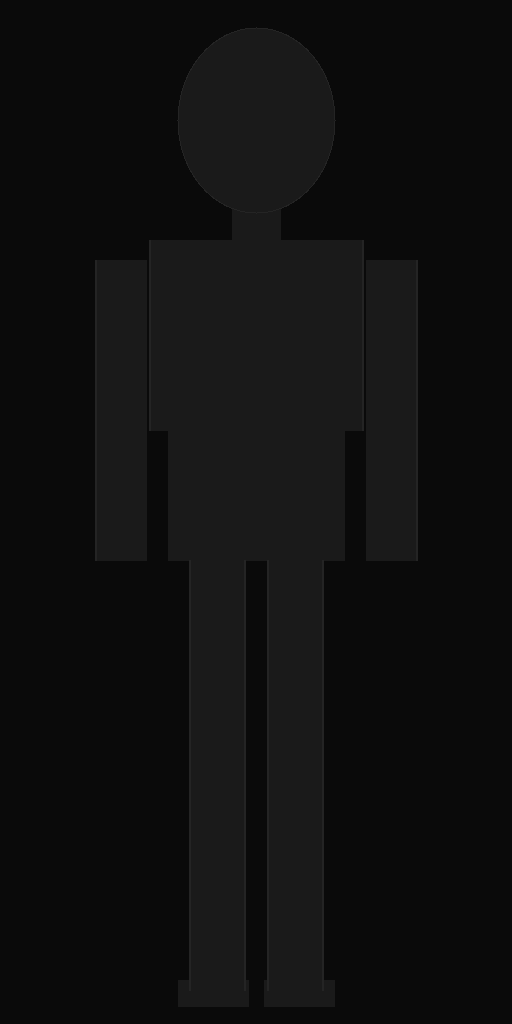
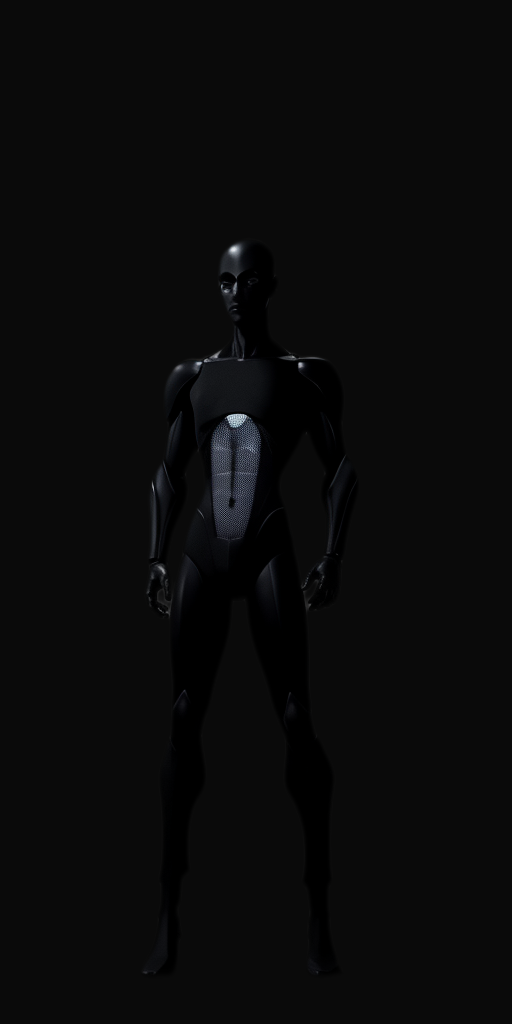
feat(assets): real body map art via rembg post-process + docker ComfyUI (refs #103)
- docker compose para ComfyUI headless (GPU) + flag --checkpoint no CLI
- rembg (erode/feather) → composite #0a0a0a: arte real 7/10 substitui placeholder
- baseline: gate vale para asset final; pós-processo documentado no fluxo
- ADR-2: pips/hit-areas retunados para a anatomia real; matriz de donos atualizada

Changed region(s): [[0.2812, 0.2188, 0.7188, 0.9688], [0.8125, 0.25, 0.8438, 0.5312]]

diff --git a/app/src/lib/chrome-body-map.ts b/app/src/lib/chrome-body-map.ts
@@ -1,17 +1,19 @@
 import type { ChromeSlot } from "@neon-dusk/shared";
 
-// Interactive geometry for the AI-generated body map (issue #94). The artwork
-// is a static PNG (app/src/assets/chrome/body-map.png); everything the player
-// interacts with is positioned here in percentages (0–100) so the overlay
-// scales at any breakpoint without JS measurement (ADR-3).
+// Interactive geometry for the AI-generated body map (issues #94, #103). The
+// artwork is a static PNG (app/src/assets/chrome/body-map.png); everything the
+// player interacts with is positioned here in percentages (0–100) so the
+// overlay scales at any breakpoint without JS measurement (ADR-3).
 //
-// Coordinates are derived from the old ChromeBodyMapSvg viewBox 200×400
-// (x/2, y/4), preserving the geometry tuned in issues #10/#28: each hit area
-// bounds the artwork path plus its stroke width. The #94 review retuned
-// skeleton (narrowed to the spine column) and arms so the torso rectangle
-// keeps an exclusive area — clicks on the skin no longer fall through to
-// inner systems. Regenerating the image keeps these valid because the
-// baseline pins the neutral pose (tools/asset-forge/baselines/neon-dusk.md).
+// #103 re-derived every coordinate from the replaced AI figure (rembg matte
+// measured on the 512×1024 asset): figure bbox x 27.9–69.7% / y 23.5–95.1%,
+// head y 23.5–34.4% (center x≈48.5), arms x 28.9–37% / 60–69.7% (y 35–60.5%),
+// legs down to y 95.1%. The #94 z-order semantics are preserved: the torso
+// rectangle (integumentary) stays the base layer, skeleton owns the spine
+// column, arms/legs/head zones render on top — clicks on skin still fall to
+// the torso, never through to inner systems. Regenerating the image keeps
+// these valid because the baseline pins the neutral pose
+// (tools/asset-forge/baselines/neon-dusk.md).
 
 /** Hit area of one slot, as a rectangle in % of the image (0–100). */
 export interface SlotHitArea {
@@ -24,29 +26,29 @@ export interface SlotHitArea {
 
 /** One rectangle per body region; `arms` has two (left/right). */
 export const SLOT_HIT_AREAS: SlotHitArea[] = [
-  { slot: "legs", x: 42, y: 58.75, w: 16, h: 24.25 },
-  { slot: "integumentary", x: 17.5, y: 23, w: 65, h: 35.75 },
-  { slot: "nervous_system", x: 42, y: 39.5, w: 16, h: 17.5 },
-  { slot: "skeleton", x: 40, y: 18, w: 20, h: 30 },
-  { slot: "circulatory", x: 31, y: 25.5, w: 16, h: 8 },
-  { slot: "arms", x: 4, y: 25, w: 22, h: 35 },
-  { slot: "arms", x: 74, y: 25, w: 22, h: 35 },
-  { slot: "ocular", x: 34, y: 9.25, w: 32, h: 11.5 },
-  { slot: "operating_system", x: 39, y: 14.5, w: 22, h: 8 },
-  { slot: "frontal_cortex", x: 36.5, y: 1.75, w: 27, h: 11.5 },
+  { slot: "legs", x: 27.5, y: 60, w: 41, h: 36 },
+  { slot: "integumentary", x: 30, y: 34, w: 37, h: 27 },
+  { slot: "nervous_system", x: 42, y: 50, w: 13, h: 11 },
+  { slot: "skeleton", x: 42, y: 35, w: 13, h: 15 },
+  { slot: "circulatory", x: 37, y: 37, w: 7, h: 8 },
+  { slot: "arms", x: 27, y: 35, w: 11, h: 25.5 },
+  { slot: "arms", x: 58.5, y: 35, w: 11.5, h: 25.5 },
+  { slot: "ocular", x: 33, y: 27.5, w: 31, h: 7 },
+  { slot: "operating_system", x: 38, y: 28.5, w: 21, h: 4.5 },
+  { slot: "frontal_cortex", x: 35.5, y: 22.5, w: 26, h: 5.5 },
 ];
 
-/** Pip/badge anchor per slot, in % of the image (viewBox PIPS / 2 and / 4). */
+/** Pip/badge anchor per slot, in % of the image — real anatomy centers (#103). */
 export const SLOT_PIPS: Record<ChromeSlot, { x: number; y: number }> = {
-  frontal_cortex: { x: 50, y: 3 },
-  ocular: { x: 50, y: 21.5 },
-  operating_system: { x: 50, y: 13 },
-  arms: { x: 18, y: 61.5 },
-  skeleton: { x: 56, y: 33 },
-  nervous_system: { x: 56, y: 63 },
-  circulatory: { x: 28, y: 44 },
-  integumentary: { x: 30, y: 63 },
-  legs: { x: 50, y: 88 },
+  frontal_cortex: { x: 48.5, y: 25 },
+  ocular: { x: 48.5, y: 28.5 },
+  operating_system: { x: 48.5, y: 32 },
+  arms: { x: 33, y: 49 },
+  skeleton: { x: 48.5, y: 42 },
+  nervous_system: { x: 48.5, y: 55 },
+  circulatory: { x: 39.5, y: 41 },
+  integumentary: { x: 40, y: 57 },
+  legs: { x: 46.5, y: 75 },
 };
 
 /**

diff --git a/app/src/lib/chrome-body-map.test.ts b/app/src/lib/chrome-body-map.test.ts
@@ -48,16 +48,18 @@ describe("chrome-body-map", () => {
     expect(Object.keys(SLOT_PIPS).sort()).toEqual([...CHROME_SLOTS].sort());
   });
 
-  it("should resolve click owners by LAYER_ORDER priority (matrix pinned in #94 review)", () => {
-    // Skin between spine and arm → torso keeps an exclusive area.
-    expect(resolveSlot(35, 50)).toBe("integumentary");
-    // Chest/spine column above the torso → skeleton wins.
-    expect(resolveSlot(50, 30)).toBe("skeleton");
+  it("should resolve click owners by LAYER_ORDER priority (matrix pinned in #94 review, retuned to #103 anatomy)", () => {
+    // Waist skin, between the spine column and the arm → torso keeps an
+    // exclusive area.
+    expect(resolveSlot(40, 57)).toBe("integumentary");
+    // Chest/spine column → skeleton wins.
+    expect(resolveSlot(48, 42)).toBe("skeleton");
     // Below the skeleton rect, inside the nervous system column.
     expect(resolveSlot(50, 52)).toBe("nervous_system");
-    // Both arm entries (left + mirrored right).
-    expect(resolveSlot(10, 30)).toBe("arms");
-    expect(resolveSlot(90, 30)).toBe("arms");
+    // Both arm entries (left + mirrored right) — arms hug the torso in the
+    // AI figure (x 27–38 / 58.5–70), far from the placeholder's spread pose.
+    expect(resolveSlot(32, 49)).toBe("arms");
+    expect(resolveSlot(65, 49)).toBe("arms");
     // Outside every area → no owner.
     expect(resolveSlot(0, 0)).toBeNull();
   });

diff --git a/app/src/components/chrome/ChromeBodyMapImage.test.tsx b/app/src/components/chrome/ChromeBodyMapImage.test.tsx
@@ -69,11 +69,11 @@ describe("ChromeBodyMapImage", () => {
     }
   });
 
-  it("should position hit-areas with percentage geometry derived from the old SVG viewBox", () => {
+  it("should position hit-areas with percentage geometry from the AI figure anatomy (#103)", () => {
     render(<ChromeBodyMapImage installed={[]} selectedSlot={null} onSelectSlot={vi.fn()} />);
 
     const legs = screen.getAllByRole("button", { name: /^Pernas — / })[0];
-    expect(legs).toHaveStyle({ left: "42%", top: "58.75%", width: "16%", height: "24.25%" });
+    expect(legs).toHaveStyle({ left: "27.5%", top: "60%", width: "41%", height: "36%" });
 
     // Paint order preserved: torso (Tegumentar) is the FIRST hit-area, so the
     // smaller slots rendered after it win overlapping clicks (LAYER_ORDER).

diff --git a/tools/asset-forge/baselines/neon-dusk.md b/tools/asset-forge/baselines/neon-dusk.md
@@ -11,16 +11,21 @@ sem anime genérico** (docs/design/00 §"O que NÃO copiar"; prompts em
 
 ### body-map (integrado nesta issue)
 
+O gate é avaliado sobre o **asset final** (pós-processado), não sobre o PNG
+bruto da geração — o modelo tende a produzir fundo claro/gradiente, corrigido
+na etapa de pós-processamento (§4).
+
 - **Anatomia coerente**: 2 braços, 2 pernas, 1 cabeça, proporções humanas
   plausíveis.
 - **Silhueta legível**: corpo inteiro visível, sem corte nas bordas, fundo
-  uniforme `#0a0a0a`.
+  uniforme `#0a0a0a` (garantido pela composição sobre `#0a0a0a` opaco).
 - **Pose neutra**: frontal, braços levemente afastados do tronco (as hit-areas
-  do `/chrome` dependem disso), pernas juntas, cabeça ereta.
+  do `/chrome` dependem disso), pernas neutras, cabeça ereta.
 - **Paleta noir**: monocromática, cinzas dessaturados, sem cor saturada
   dominante.
 - **Sem texto/glifos** na imagem.
 - **Sem watermark**.
+- **Sem halo/fringe** claro na borda da figura (erode/feather no matte).
 
 ### metro-map / icon / avatar (geração sob demanda)
 
@@ -64,10 +69,16 @@ paleta (fundo/realces), nunca introduzir cor fora dela.
 ## 4. Gate de aceite
 
 1. Gerar N variantes (`generate <tipo> --variants N`).
-2. Criticar cada uma contra os critérios (§1) + red flags (§2).
-3. Escolher a melhor; rejeitar (deletar) as demais.
-4. Renomear para o nome canônico (`output.filename` do registry) e commitar.
-5. Se nenhuma passar: ajustar prompt/seed e regerar. **Nunca commitar "quase"**.
+2. Criticar cada uma contra os critérios (§1) + red flags (§2) e escolher a
+   melhor; rejeitar (deletar) as demais.
+3. **Pós-processar** a escolhida (body-map; demais tipos quando aplicável):
+   remoção de fundo com `rembg` (venv dev-only, `pip install "rembg[cpu]"`) →
+   matte com erode ~2px + feather ~1px (mata halo/fringe) → composição sobre
+   fundo `#0a0a0a` opaco.
+4. Avaliar o **asset final** pós-processado contra os critérios — o gate de
+   fundo uniforme vale para o asset final, não para o PNG bruto.
+5. Renomear para o nome canônico (`output.filename` do registry) e commitar.
+6. Se nenhuma passar: ajustar prompt/seed e regerar. **Nunca commitar "quase"**.
 
 ## 5. Limites legais e editoriais
 

diff --git a/tools/asset-forge/docker/README.md b/tools/asset-forge/docker/README.md
@@ -1,0 +1,60 @@
+# ComfyUI (asset-forge) — infraestrutura Docker
+
+ComfyUI headless em Docker com GPU, usado pelo CLI
+`tools/asset-forge/cli.mjs` para gerar assets do Neon Dusk (SD1.5).
+**Nenhum peso/modelo entra no repo** — tudo fica no host via bind mount.
+
+## Subir
+
+```sh
+cd tools/asset-forge/docker
+docker compose up -d --build   # primeira build baixa ~3GB (torch cu126)
+```
+
+Depois de ~1 min, valide:
+
+```sh
+curl -s http://127.0.0.1:8188/system_stats   # deve responder comfyui_version
+node tools/asset-forge/cli.mjs check          # exit 0 = checkpoint visível
+```
+
+## Onde ficam os modelos
+
+O container monta no host:
+
+| Caminho no host (padrão)                    | Montado em (container) |
+| ------------------------------------------- | ---------------------- |
+| `$HOME/comfy/ComfyUI/models` (setup Studio 21) | `/opt/ComfyUI/models`  |
+
+O padrão pode ser sobrescrito:
+
+```sh
+COMFYUI_MODELS_DIR=/outra/pasta/models docker compose up -d
+```
+
+No host, o checkpoint `dreamshaper_8.safetensors` precisa estar em
+`<models>/checkpoints/` (já presente no setup Studio 21).
+
+## Como trocar de checkpoint
+
+1. Coloque o `.safetensors` em `<models>/checkpoints/`.
+2. Ajuste `CHECKPOINT` em `tools/asset-forge/src/workflow.mjs`.
+3. `node tools/asset-forge/cli.mjs check` deve passar com o novo nome.
+
+## Trocar a versão do ComfyUI
+
+Edite a tag do clone no `Dockerfile` (`--branch v0.28.0`) e o `image:` no
+`compose.yml`, então `docker compose up -d --build`. Fixe a versão para os
+assets ficarem reproduzíveis (gate `baselines/neon-dusk.md`).
+
+## Pré-requisitos do host
+
+- Docker ≥ 27 + Compose ≥ v2.30 (suporte a `gpus:`)
+- Driver NVIDIA ≥ 525 e `nvidia-container-toolkit` instalado
+  (`docker info | grep -i nvidia` mostra o runtime)
+
+## Parar / remover
+
+```sh
+docker compose down          # para o container (modelos permanecem no host)
+```

diff --git a/tools/asset-forge/README.md b/tools/asset-forge/README.md
@@ -38,11 +38,16 @@ Exit codes: `0` ok · `1` erro inesperado · `2` uso/registry inválido ·
 1. Gere N variantes (`--variants N`) — arquivos `<tipo>-<seed>.png` no destino
    do registry (`registry.json` → `output.dir`).
 2. Critique cada variante contra `baselines/neon-dusk.md` (critérios + red
-   flags + paleta).
-3. Renomeie **a única variante aceita** para o nome canônico
+   flags + paleta) e escolha a melhor.
+3. **Pós-processe** a escolhida (body-map): `rembg` em venv dev-only (ex.:
+   `python3 -m venv /tmp/rembg-venv && /tmp/rembg-venv/bin/pip install "rembg[cpu]"`)
+   → matte com erode ~2px + feather ~1px (sem halo) → composição sobre fundo
+   `#0a0a0a` opaco. O gate de fundo uniforme vale para o **asset final**
+   pós-processado, não para o PNG bruto.
+4. Renomeie **a única variante aceita** para o nome canônico
    (`output.filename`, ex.: `body-map.png`) e commite.
-4. **Delete as variantes rejeitadas** — só o asset aceito entra no repo.
-5. Se nenhuma passar, ajuste prompt/seed e regenere. Nunca commite "quase".
+5. **Delete as variantes rejeitadas** — só o asset aceito entra no repo.
+6. Se nenhuma passar, ajuste prompt/seed e regenere. Nunca commite "quase".
 
 ## Convenções
 
